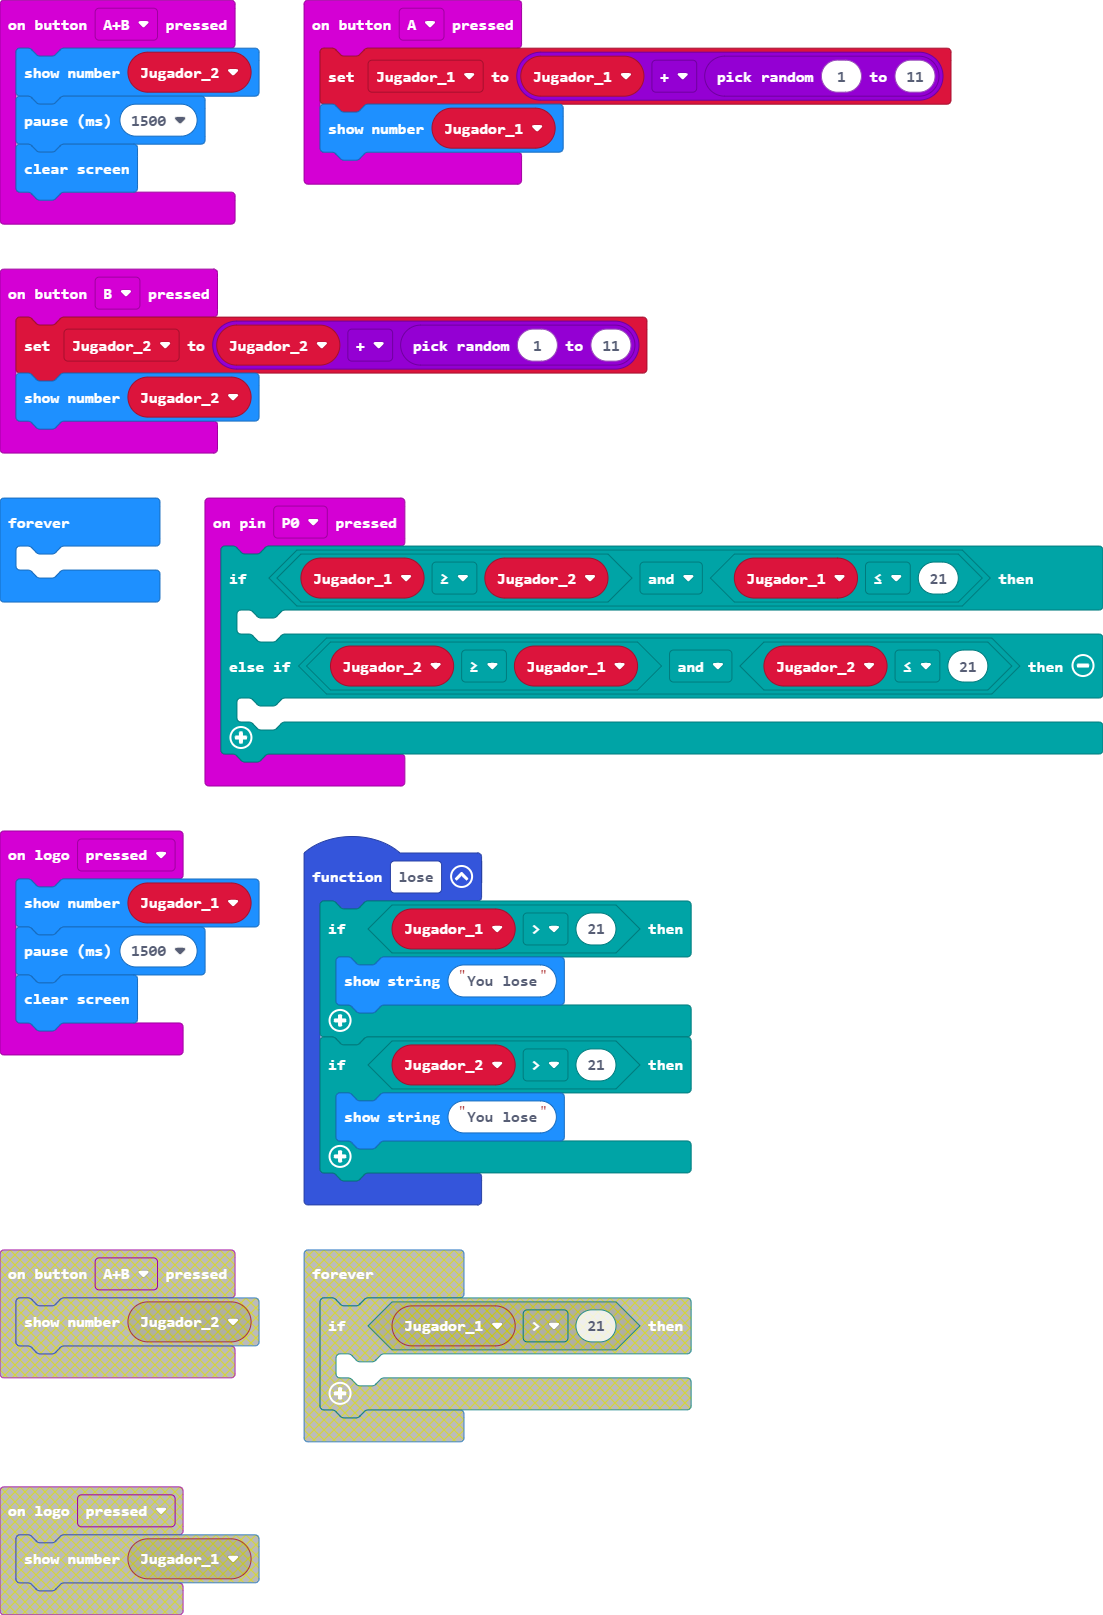
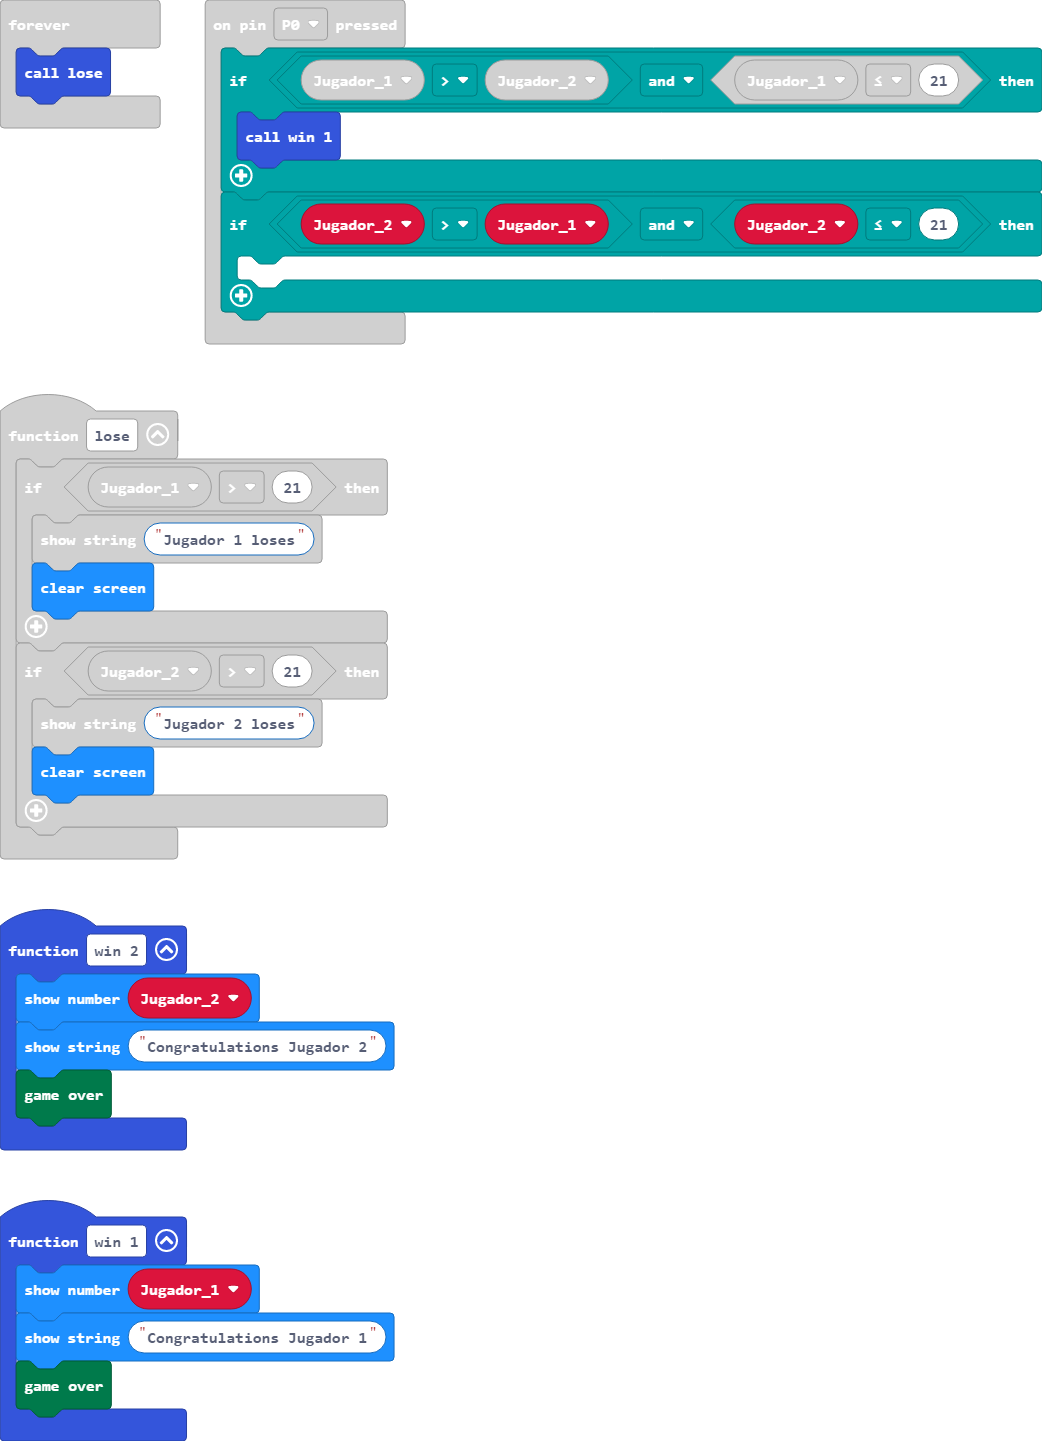
Update main.blocks, main.ts

diff --git a/main.ts b/main.ts
@@ -1,7 +1,8 @@
 input.onPinPressed(TouchPin.P0, function () {
-    if (Jugador_1 >= Jugador_2 && Jugador_1 <= 21) {
-    	
-    } else if (Jugador_2 >= Jugador_1 && Jugador_2 <= 21) {
+    if (Jugador_1 > Jugador_2 && Jugador_1 <= 21) {
+        win_1()
+    }
+    if (Jugador_2 > Jugador_1 && Jugador_2 <= 21) {
     	
     }
 })
@@ -11,10 +12,12 @@ input.onButtonPressed(Button.A, function () {
 })
 function lose () {
     if (Jugador_1 > 21) {
-        basic.showString("You lose")
+        basic.showString("Jugador 1 loses")
+        basic.clearScreen()
     }
     if (Jugador_2 > 21) {
-        basic.showString("You lose")
+        basic.showString("Jugador 2 loses")
+        basic.clearScreen()
     }
 }
 input.onButtonPressed(Button.AB, function () {
@@ -22,10 +25,20 @@ input.onButtonPressed(Button.AB, function () {
     basic.pause(1500)
     basic.clearScreen()
 })
+function win_1 () {
+    basic.showNumber(Jugador_1)
+    basic.showString("Congratulations Jugador 1")
+    game.gameOver()
+}
 input.onButtonPressed(Button.B, function () {
     Jugador_2 = Jugador_2 + randint(1, 11)
     basic.showNumber(Jugador_2)
 })
+function win_2 () {
+    basic.showNumber(Jugador_2)
+    basic.showString("Congratulations Jugador 2")
+    game.gameOver()
+}
 input.onLogoEvent(TouchButtonEvent.Pressed, function () {
     basic.showNumber(Jugador_1)
     basic.pause(1500)
@@ -36,5 +49,5 @@ let Jugador_1 = 0
 Jugador_1 = randint(2, 21)
 Jugador_2 = randint(2, 21)
 basic.forever(function () {
-	
+    lose()
 })
